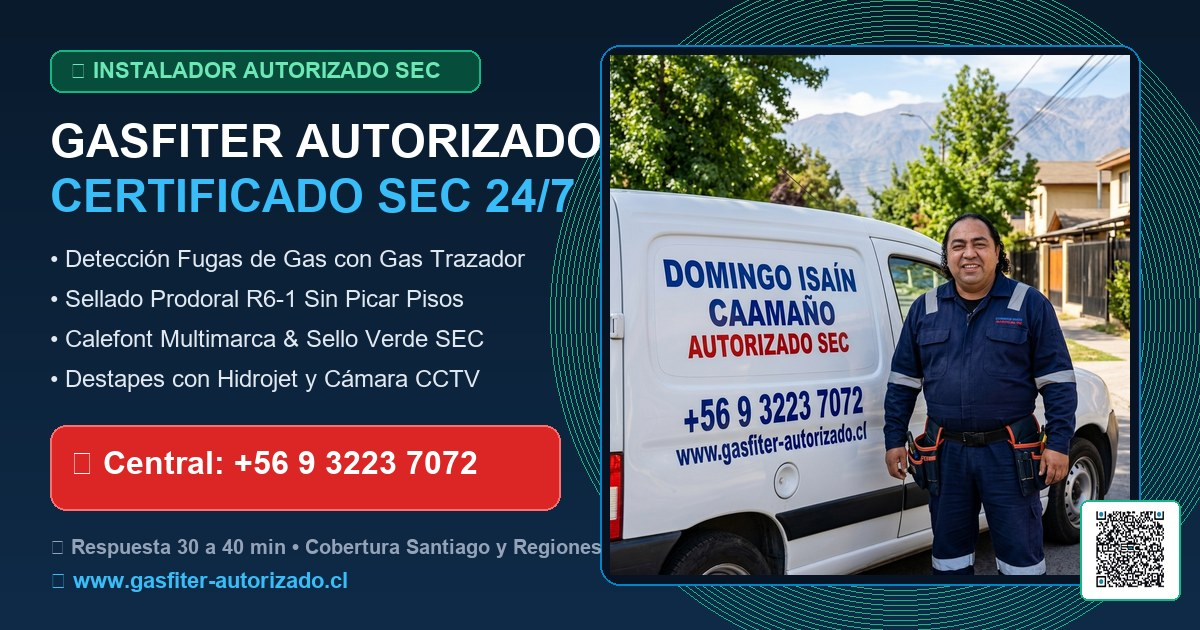
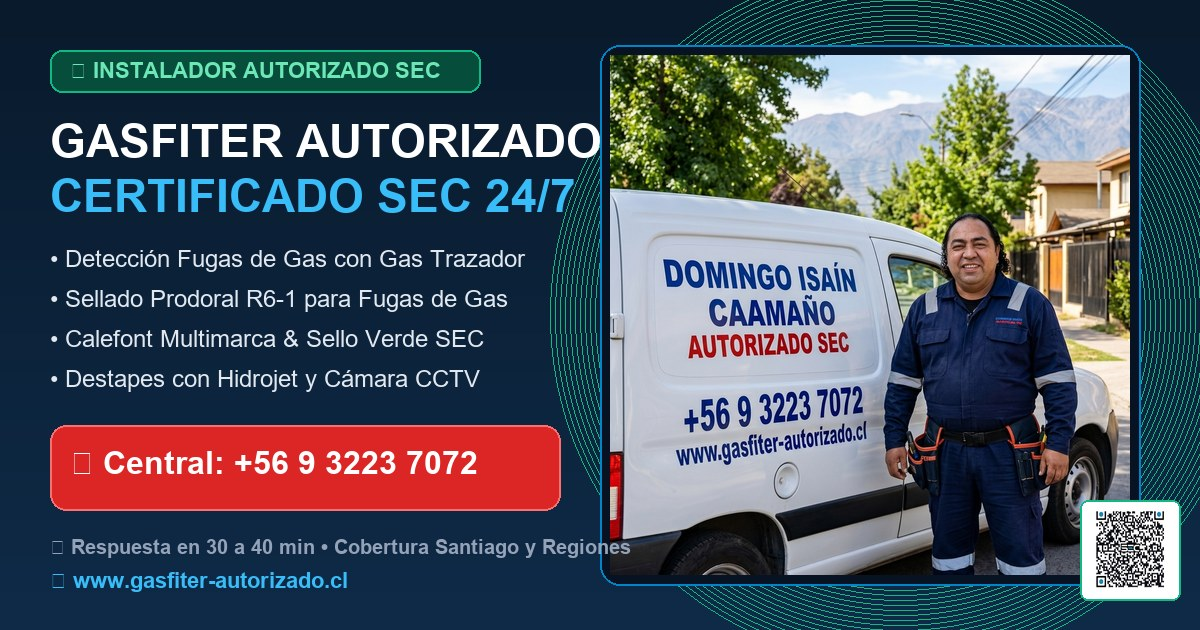
fix: actualizar imagen OG con Prodoral R6-1 para Fugas de Gas y versionado ?v=2 para refrescar cache de Facebook y WhatsApp

Changed region(s): [[0.1542, 0.8444, 0.5242, 0.9048], [0.2467, 0.4524, 0.4317, 0.5127]]

diff --git a/data/make_og_image.py b/data/make_og_image.py
@@ -63,7 +63,7 @@ draw.text((50, 170), "CERTIFICADO SEC 24/7", font=font_title, fill='#38bdf8')
 
 # Subtitle / Services list
 draw.text((50, 245), "• Detección Fugas de Gas con Gas Trazador", font=font_subtitle, fill='#e2e8f0')
-draw.text((50, 285), "• Sellado Prodoral R6-1 Sin Picar Pisos", font=font_subtitle, fill='#e2e8f0')
+draw.text((50, 285), "• Sellado Prodoral R6-1 para Fugas de Gas", font=font_subtitle, fill='#e2e8f0')
 draw.text((50, 325), "• Calefont Multimarca & Sello Verde SEC", font=font_subtitle, fill='#e2e8f0')
 draw.text((50, 365), "• Destapes con Hidrojet y Cámara CCTV", font=font_subtitle, fill='#e2e8f0')
 
@@ -72,7 +72,7 @@ draw.rounded_rectangle([50, 425, 560, 510], radius=16, fill='#dc2626', outline='
 draw.text((70, 445), "📞 Central: +56 9 3223 7072", font=font_phone, fill='#ffffff')
 
 # Bottom details
-draw.text((50, 535), "⚡ Respuesta 30 a 40 min • Cobertura Santiago y Regiones", font=font_pill, fill='#94a3b8')
+draw.text((50, 535), "⚡ Respuesta en 30 a 40 min • Cobertura Santiago y Regiones", font=font_pill, fill='#94a3b8')
 draw.text((50, 568), "🌐 www.gasfiter-autorizado.cl", font=font_web, fill='#38bdf8')
 
 # Paste QR in bottom right corner of hero card

diff --git a/includes/seo-meta.php b/includes/seo-meta.php
@@ -14,7 +14,7 @@ $site_domain = "https://gasfiter-autorizado.cl";
 $page_title = isset($page_title) ? $page_title : "Gasfiter Autorizado Certificado SEC | Fugas de Gas, Calefont y Destapes 24/7";
 $page_description = isset($page_description) ? $page_description : "Central Gasfiter Autorizado Certificado SEC en Santiago y Regiones. Expertos en detección de fugas de gas, sellado con Prodoral sin picar, mantención de calefont, destape de alcantarillados y certificación SEC. Atención 24/7. Llame al 9 3223 7072.";
 $canonical_url = isset($canonical_url) ? $canonical_url : $site_domain . $_SERVER['REQUEST_URI'];
-$og_image = isset($og_image) ? $og_image : $site_domain . "/assets/images/og-share-whatsapp.jpg";
+$og_image = isset($og_image) ? $og_image : $site_domain . "/assets/images/og-share-whatsapp.jpg?v=2";
 $page_type = isset($page_type) ? $page_type : "home";
 ?>
 
